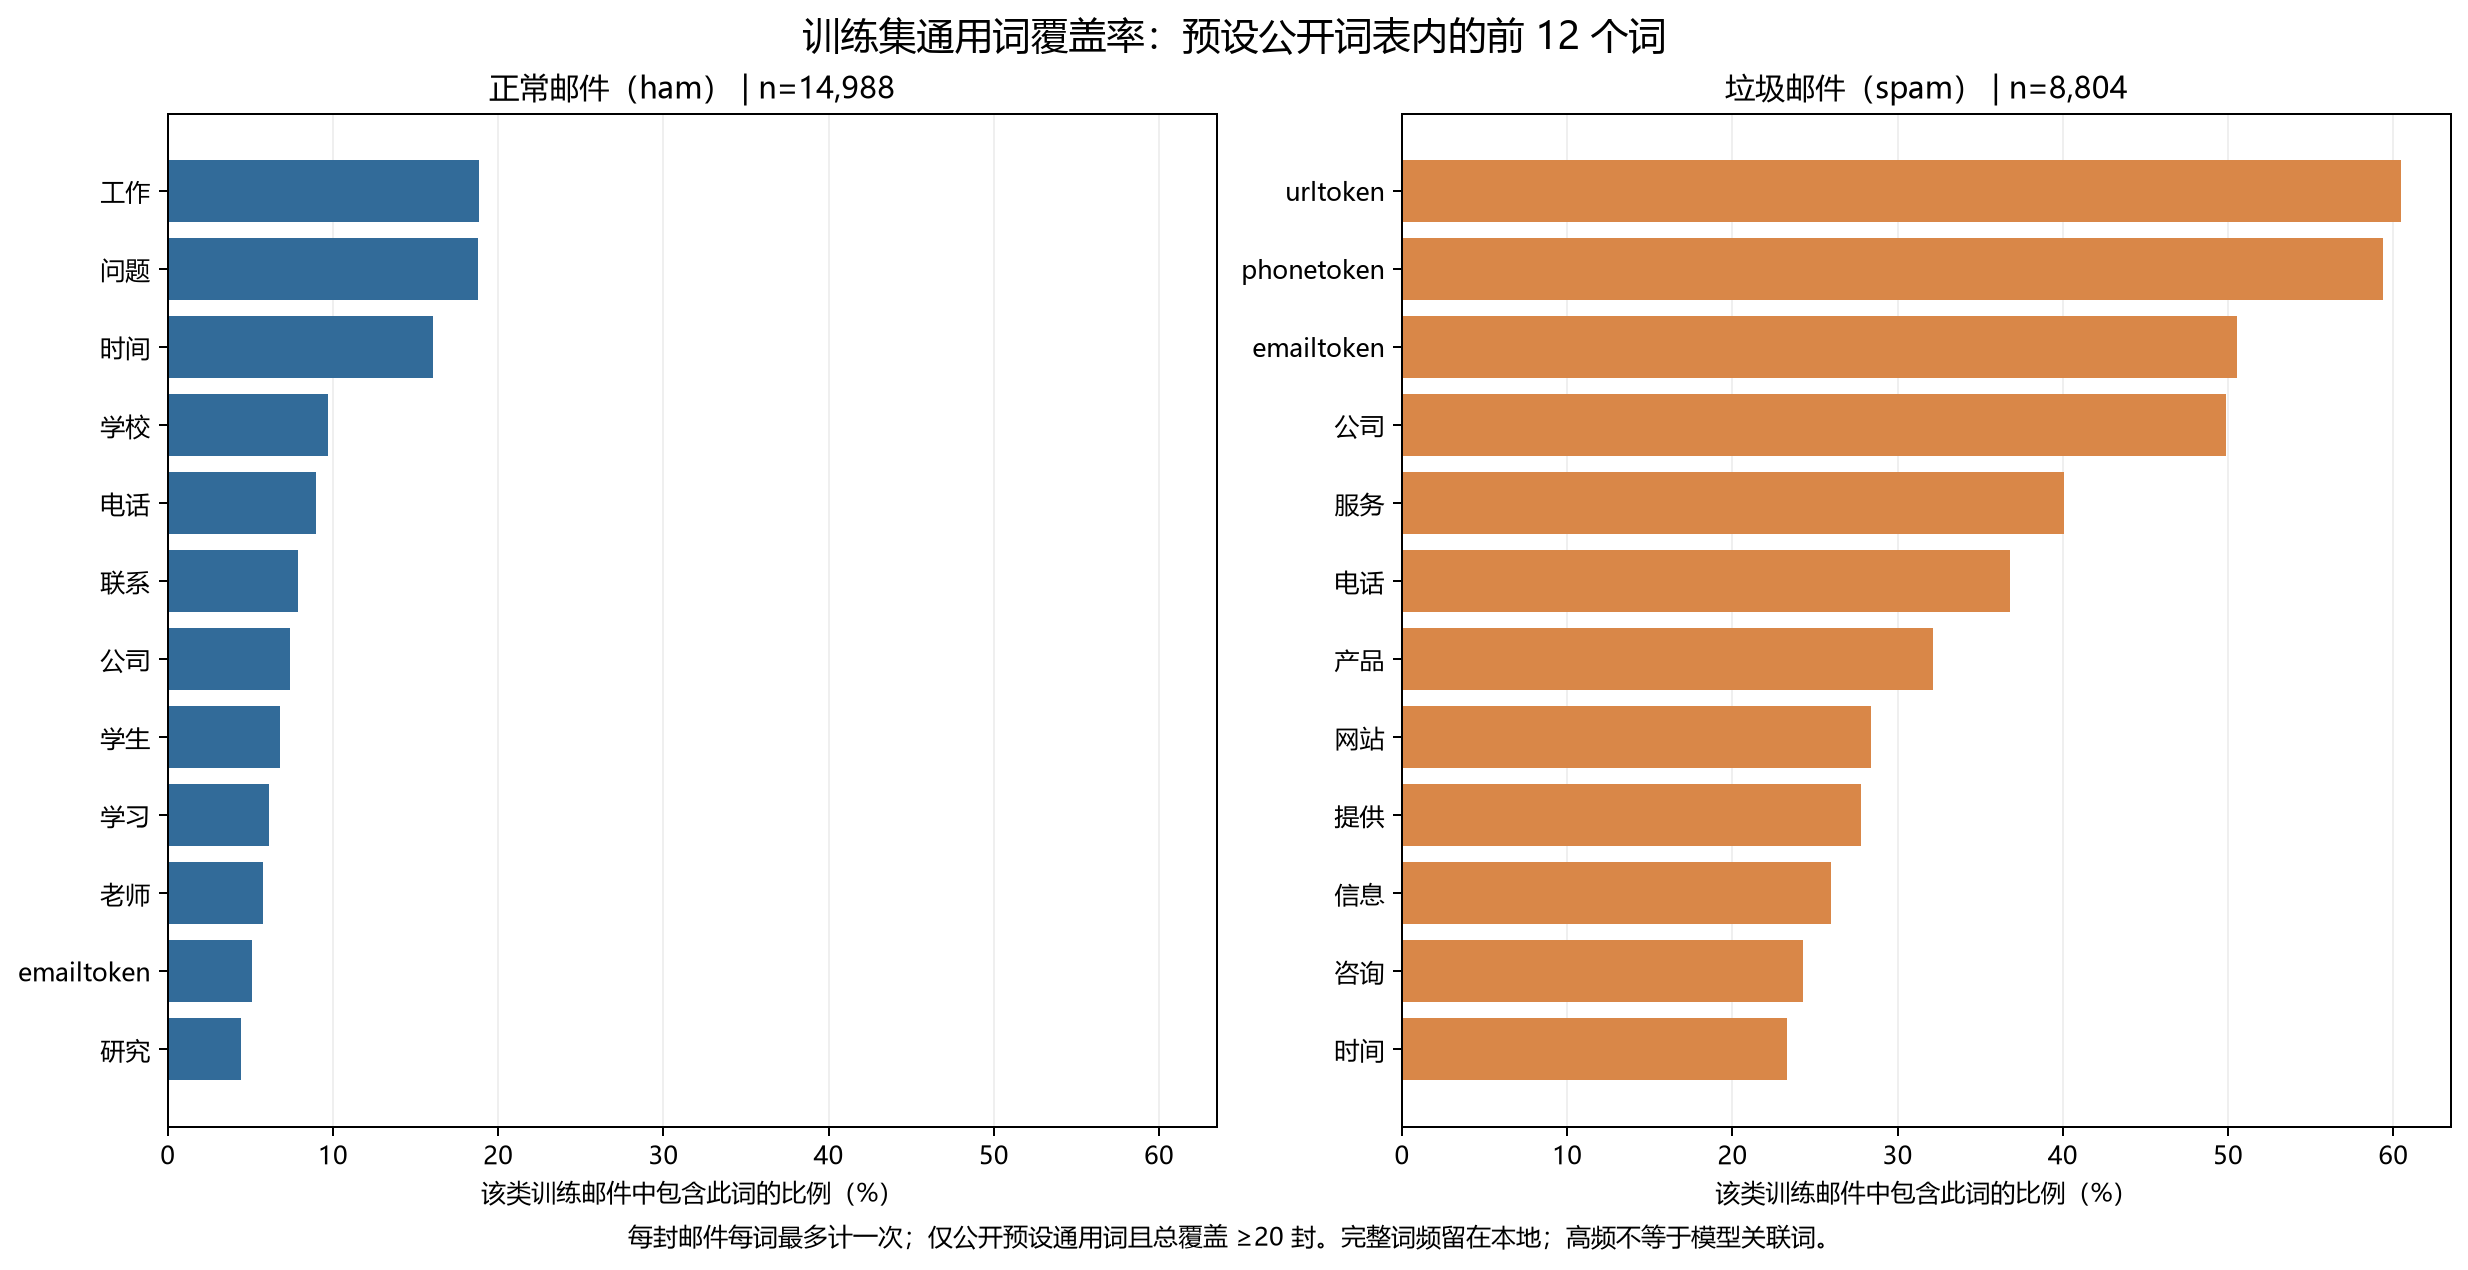
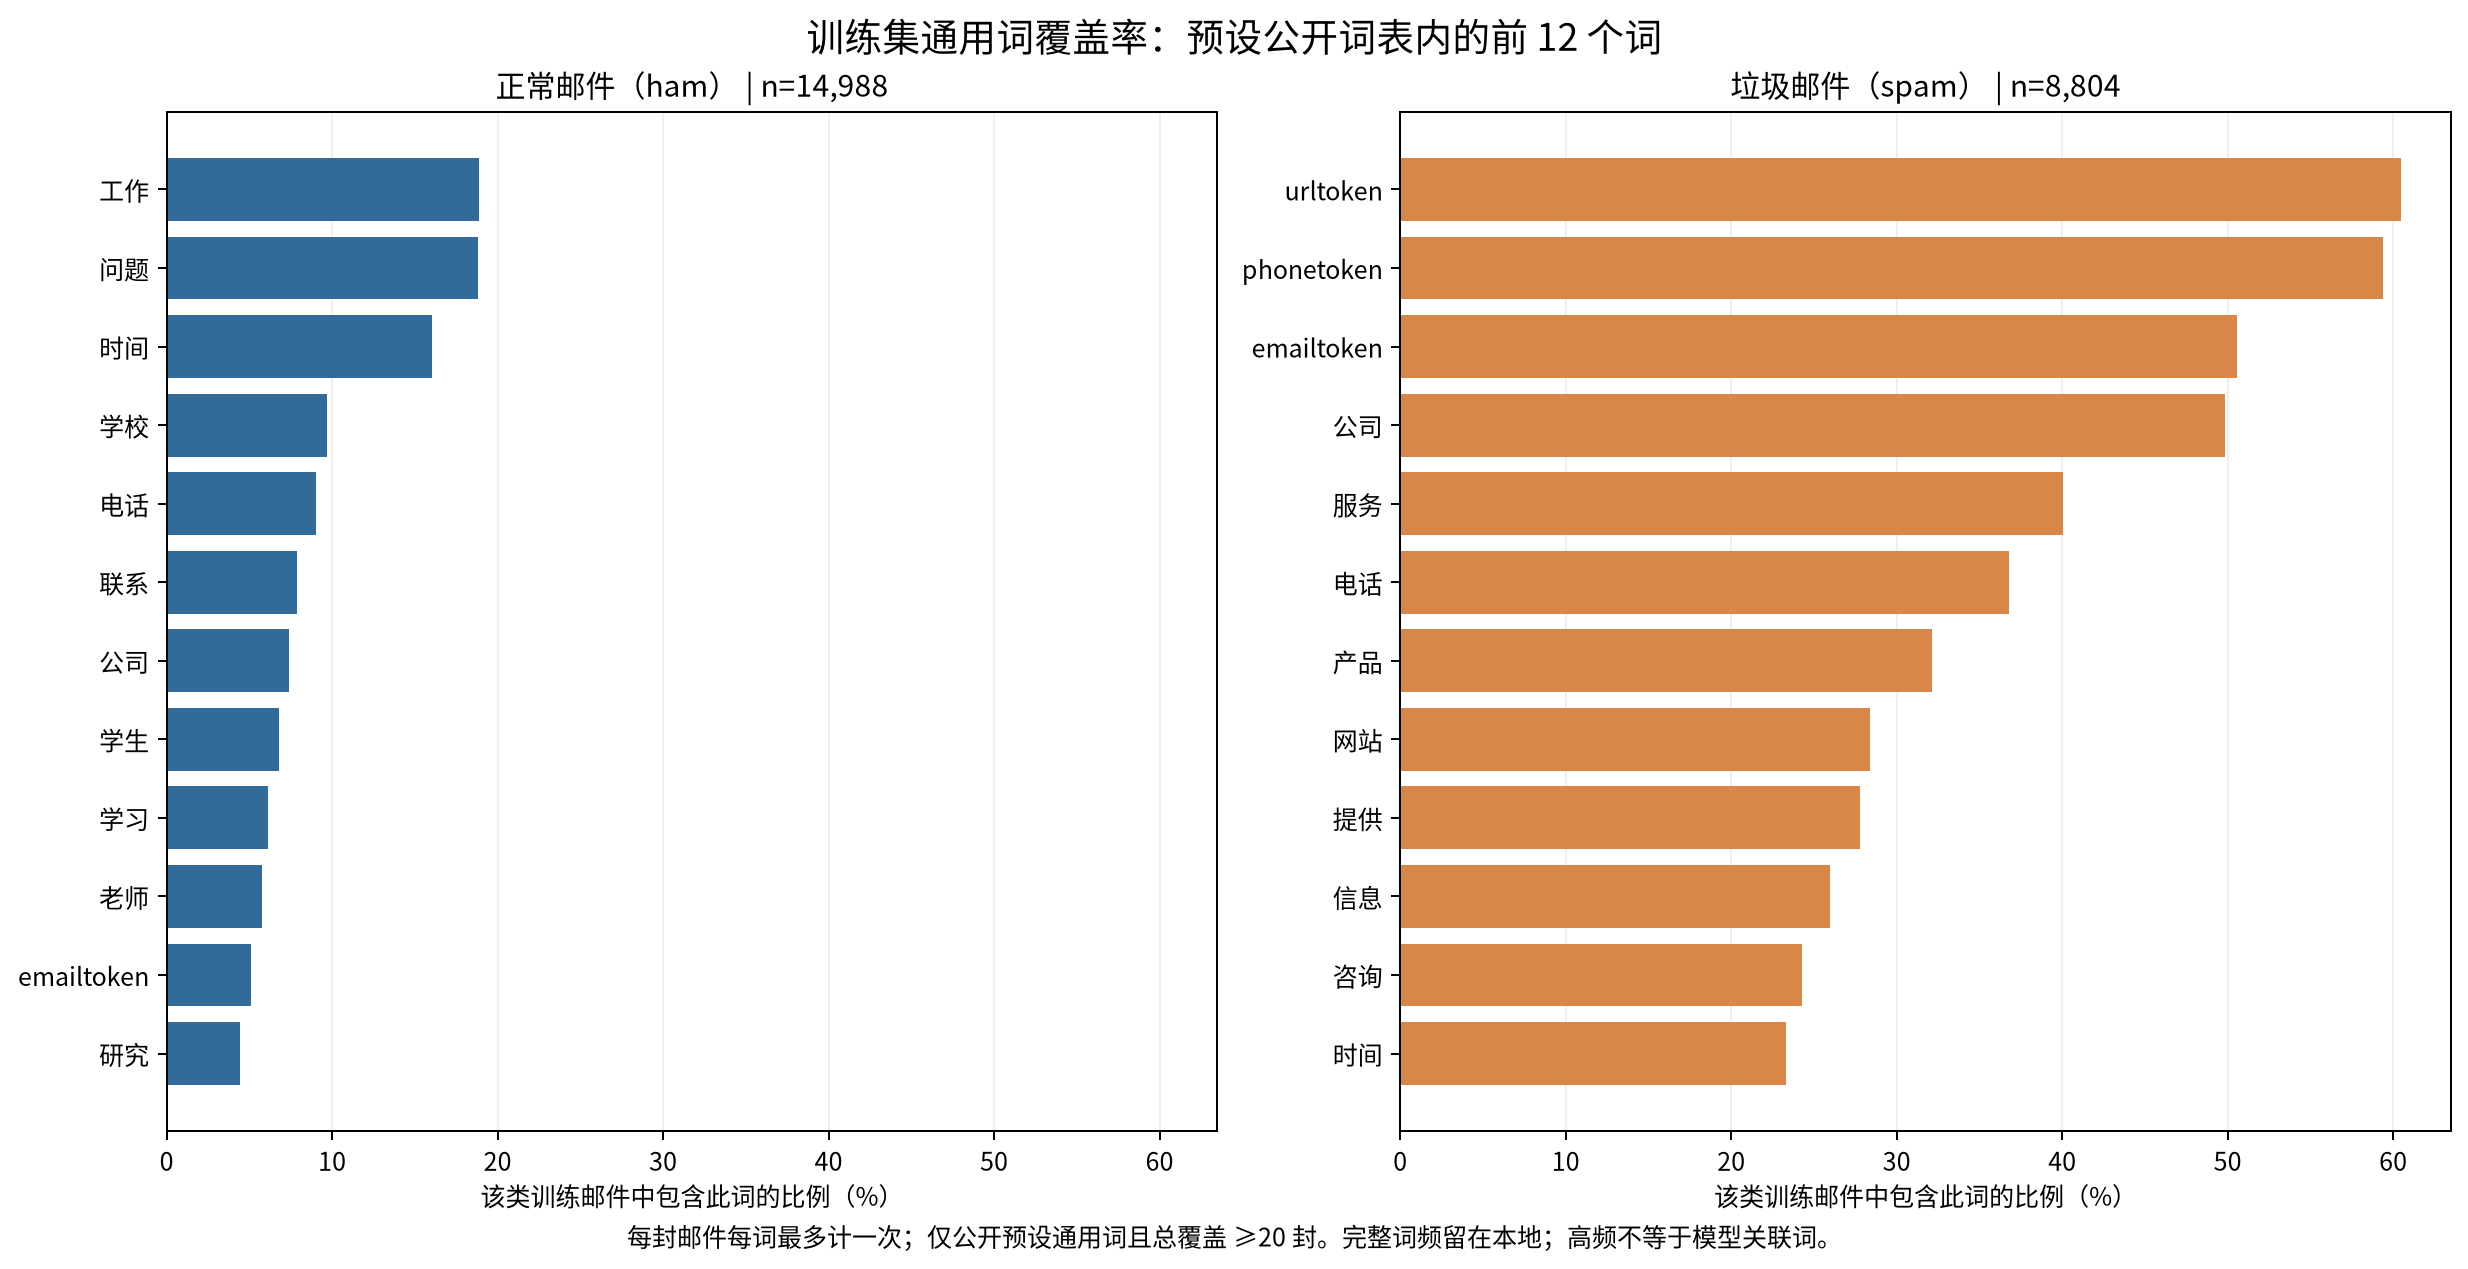
reproduce: rebuild private caches and document cross-platform vocabulary differences

diff --git a/scripts/build_features.py b/scripts/build_features.py
@@ -86,7 +86,7 @@ def word_coverage(training_records: list[dict]) -> tuple[list[dict], dict]:
 
 
 def plot_public_words(coverage: dict, path: Path) -> None:
-    plt.rcParams.update({"font.sans-serif": ["Microsoft YaHei", "SimHei", "DejaVu Sans"], "axes.unicode_minus": False})
+    plt.rcParams.update({"font.sans-serif": ["Microsoft YaHei", "SimHei", "Noto Sans CJK SC", "DejaVu Sans"], "axes.unicode_minus": False})
     fig, axes = plt.subplots(1, 2, figsize=(13.6, 6.7), sharex=True, layout="constrained")
     colors = {"ham": "#326b99", "spam": "#d98748"}
     for ax, label, title in zip(axes, ("ham", "spam"), ("正常邮件（ham）", "垃圾邮件（spam）")):

diff --git a/scripts/train_models.py b/scripts/train_models.py
@@ -52,7 +52,7 @@ def write_comparison_csv(path: Path, results: list[dict]) -> None:
 
 
 def plot_comparison(path: Path, results: list[dict], selected_id: str) -> None:
-    plt.rcParams.update({"font.sans-serif": ["Microsoft YaHei", "SimHei", "DejaVu Sans"], "axes.unicode_minus": False})
+    plt.rcParams.update({"font.sans-serif": ["Microsoft YaHei", "SimHei", "Noto Sans CJK SC", "DejaVu Sans"], "axes.unicode_minus": False})
     positions = np.arange(len(results))
     labels = ["多数类" if row["family"] == "majority" else
               f"NB α={row['parameters']['alpha']:g}" if row["family"] == "multinomial_nb" else

diff --git a/docs/stages/06c_真实语料复现与差异说明.md b/docs/stages/06c_真实语料复现与差异说明.md
@@ -1,0 +1,28 @@
+# 真实语料缓存恢复与跨平台复核
+
+日期：2026-10-22，补充第 2—6 步。
+
+## 执行与结果
+
+依次执行 `audit_index.py`、`clean_mail.py --scope development/full` 及对应 `check_cleaning.py`、`split_data.py`、`check_splits.py`、`build_features.py`、`check_features.py`、`train_models.py`、`check_models.py`，所有构建和独立验收均通过。固定版本来自 requirements.txt。
+
+- 64,620 封清洗缓存、索引摘要、开发与全量清洗摘要和正式划分记录与历史基线一致。
+- train/validation/test 三套 CSV 字节完全一致，开发样本及所有去重约束未变。
+- 分词词典、规则、完整训练词覆盖率文件相同；新特征仍为 50,000 维，三套矩阵无空向量。
+- 本轮特征/模型缓存均在本机重建，独立重数文档频率、转换、模型重载及独立重训检查通过。
+
+## 没有掩盖的复现差异
+
+本轮不能称为原 Windows 模型的逐字节复现：训练词表与 IDF 指纹不同。NB alpha=1 的验证误报从 135 变为 136，alpha=0.5 从 135 变为 134；其他五组的指标不变。获选 NB alpha=0.1 与 LR C=2 的验证成绩、两族最优参数及最终候选完全相同。LR 验证 TN=3201、FP=11、FN=47、TP=1840。
+
+检查本机 scikit-learn `_limit_features` 源码发现，max_features 截断按词频 argsort，未明确使用词汇序的平局规则。跨平台对截止处同频词的处理是合理假设，但没有原 Windows 私有词表，不能证明具体差异词或唯一原因。本次没有为了重现旧指标改参数或反复挑选词表；明确版本化本轮已核验结果。旧结果仍保留在 Git 历史 `cd8e106`。
+
+绘图程序增加 Noto Sans CJK SC 回退字体，仅解决 Linux 中文图形显示；未改变分词、特征和模型规则。新指纹、模型文件及图像按本轮产物重新登记。详细比较见 `artifacts/audit/restoration_validation.json`。
+
+## 产物与下一步
+
+公开更新：feature_summary/feature_validation、model_selection/model_validation、stage06_validation.csv 及对应两张图。正文缓存、词表、稀疏矩阵、模型全部保持 Git 忽略。
+
+此阶段完成时没有真实最终测试访问记录，也没有计算测试分类指标。现在以本轮独立核验的第六步为基线运行第七步；去标签臂必须重现本轮预测、词表和 IDF，再由验证集决定清洗表示。
+
+按阶段独立 Git 提交。GitHub 应用写入已确认 403 阻塞，保留本地历史，不重复尝试其他写入途径规避权限。

diff --git a/执行清单.md b/执行清单.md
@@ -2,7 +2,7 @@
 
 更新日期：2026 年 10 月 22 日。编号与 [项目计划](项目计划.md) 的十个步骤一致。下表记录本项目的技术进度；成员登记、各人实际贡献和其他电脑的复现单独确认。
 
-最新补充：已收到并核对课程语料、Word 模板与要求，精确依赖恢复成功；正在恢复真实实验缓存。见 [附件核对与环境恢复](docs/stages/06b_附件核对与环境恢复.md)。GitHub 写入仍返回应用授权 403，所有续作暂为本地提交。
+最新补充：已收到并核对课程语料、Word 模板与要求，精确依赖恢复成功；真实清洗、划分和模型缓存已恢复并核验；跨平台词表和两个 NB 配置的小幅差异见 [复现说明](docs/stages/06c_真实语料复现与差异说明.md)。第七八步即将执行。见 [附件核对与环境恢复](docs/stages/06b_附件核对与环境恢复.md)。GitHub 写入仍返回应用授权 403，所有续作暂为本地提交。
 
 续作准备：已复核 93 个基线文件，原有 110 项加新增 18 项合成测试均通过；缺失私有缓存和版本差异见 `python scripts/check_readiness.py`。现有真实结果保持原样，后续实验须取得原始邮件后执行。[逐文件用途](docs/仓库文件用途.md)。
 

diff --git a/进度记录.md b/进度记录.md
@@ -2,7 +2,7 @@
 
 更新日期：2026 年 10 月 22 日。
 
-最新补充：已收到并核对课程语料、Word 模板与要求，精确依赖恢复成功；正在恢复真实实验缓存。见 [附件核对与环境恢复](docs/stages/06b_附件核对与环境恢复.md)。GitHub 写入仍返回应用授权 403，所有续作暂为本地提交。
+最新补充：已收到并核对课程语料、Word 模板与要求，精确依赖恢复成功；真实清洗、划分和模型缓存已恢复并核验；跨平台词表和两个 NB 配置的小幅差异见 [复现说明](docs/stages/06c_真实语料复现与差异说明.md)。第七八步即将执行。见 [附件核对与环境恢复](docs/stages/06b_附件核对与环境恢复.md)。GitHub 写入仍返回应用授权 403，所有续作暂为本地提交。
 
 本次续作已复核主分支的 93 个文件，原有 110 项合成测试全部通过。参见 [文件用途](docs/仓库文件用途.md) 和 [续作准备](docs/stages/06a_仓库复核与续作准备.md)。原始邮件与私有缓存尚未恢复，真实第七、八步实验仍未执行。
 
